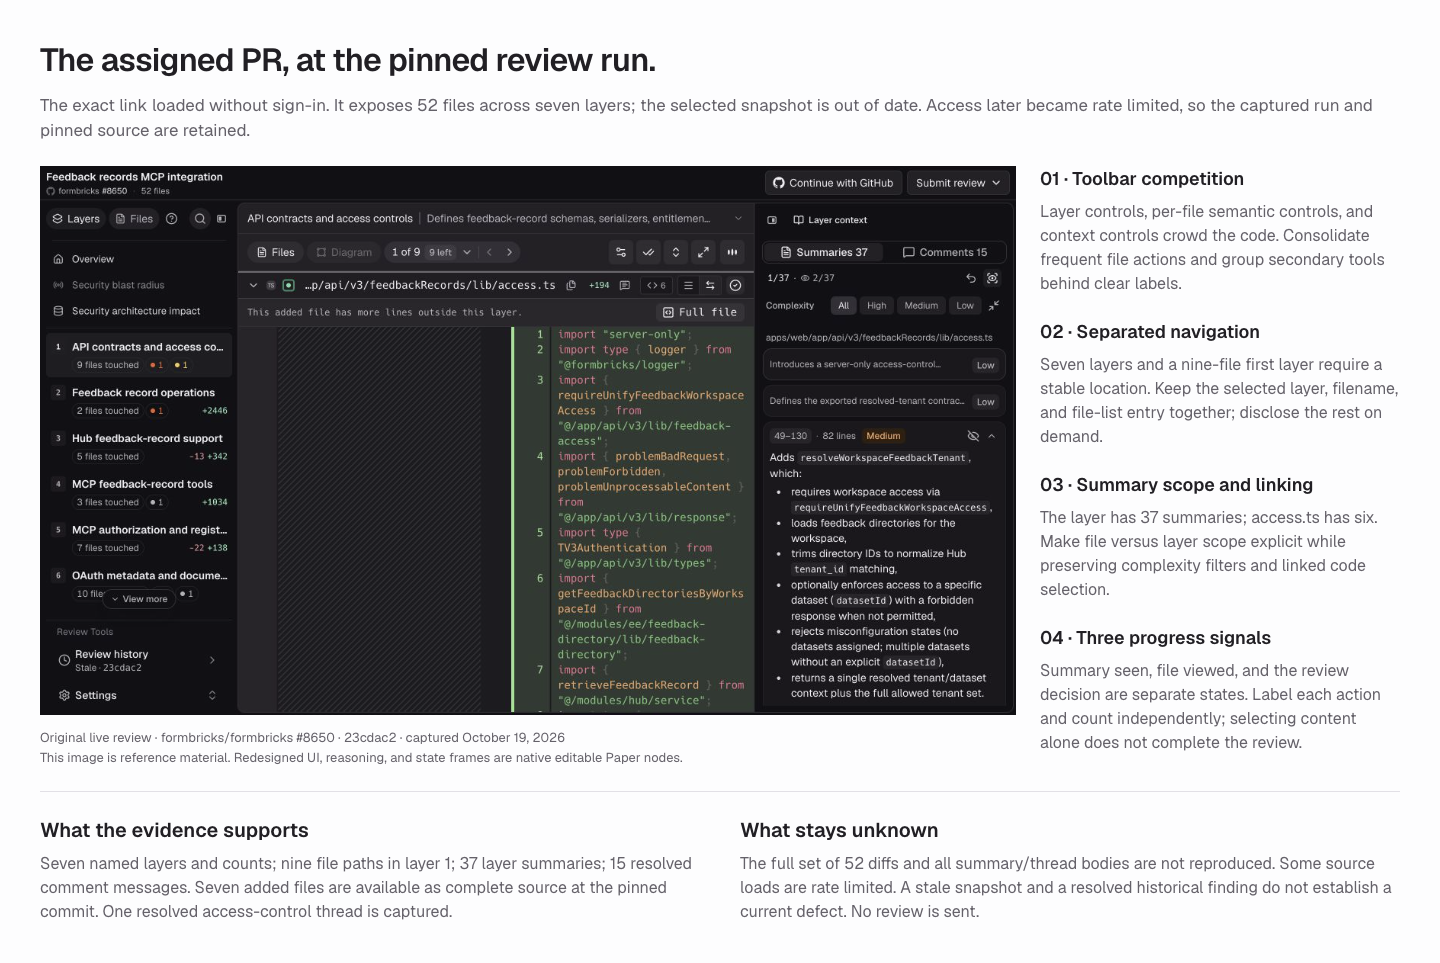
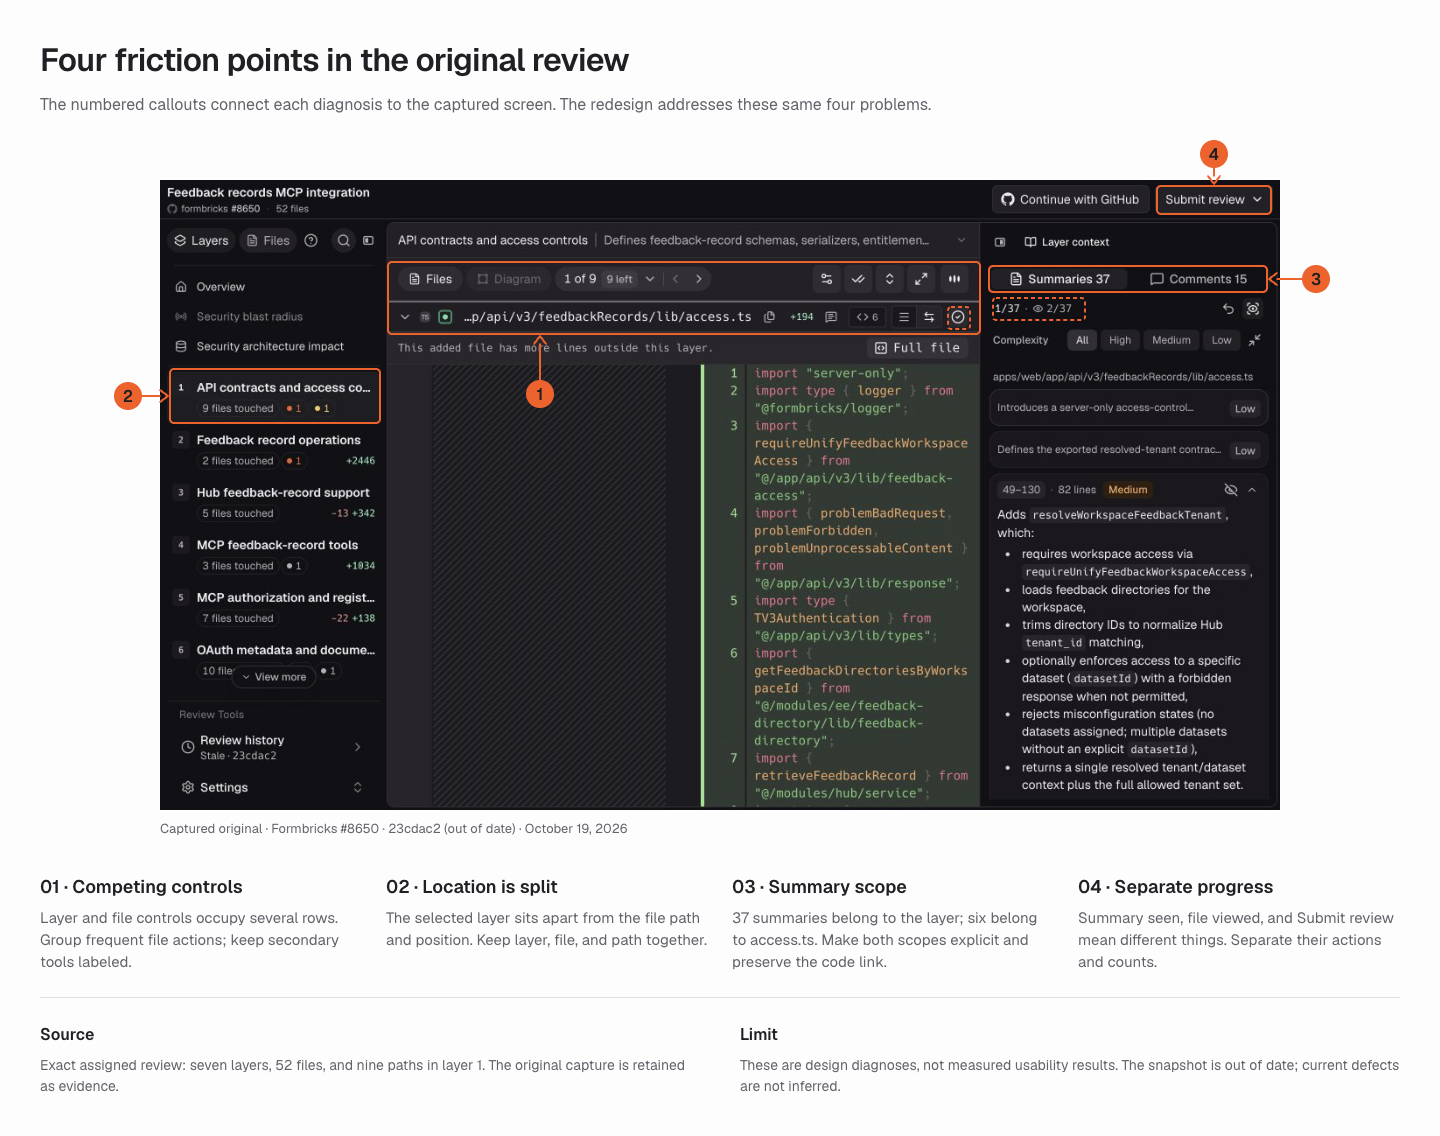
Connect diagnosis to the original screen with numbered visual callouts

diff --git a/docs/verification.md b/docs/verification.md
@@ -51,3 +51,7 @@ M is explicitly final on Paper page 01 and its start/rationale boards. Page 02 r
 Removed exploration links and the gallery from the deployed path; earlier gallery assets remain in archive/site-explorations. Legacy approaches/directions URLs redirect to the final prototype. Paper keeps A–D on an archive page. Removed the duplicated reading guide and implementation explanation from the primary Paper page; retained the original diagnosis, final screen, four design decisions, capability destinations, and interaction/recovery states.
 
 Rebuilt the rationale as one visually checked page with observation-to-decision mapping, code-width tradeoff, a proposed usability test, and coverage limits. Inspected the prototype at 1440 and 1280 px and the rationale down to 880 px; no new page overflow or overlap was observed. Source notes retain all four demonstration controls. All relative HTML links and assets resolve; app.js passes syntax checking. The mechanical design detector reported only pre-existing reading-page type sizes outside the product UI ramp; those editorial sizes are intentional.
+
+## Annotated diagnosis board
+
+Board 01 now ties the four existing diagnoses to the exact captured original through editable SVG outlines, numbered markers, and short arrows. The original screenshot remains unchanged. Notes sit beneath the image. Progress controls use secondary dashed outlines to connect the three distinct states. The larger original and all annotations were visually checked for alignment, contrast, text coverage, and artboard fit; board height is 1136px with sufficient separation from the next row. No new usability or defect claim was added.
